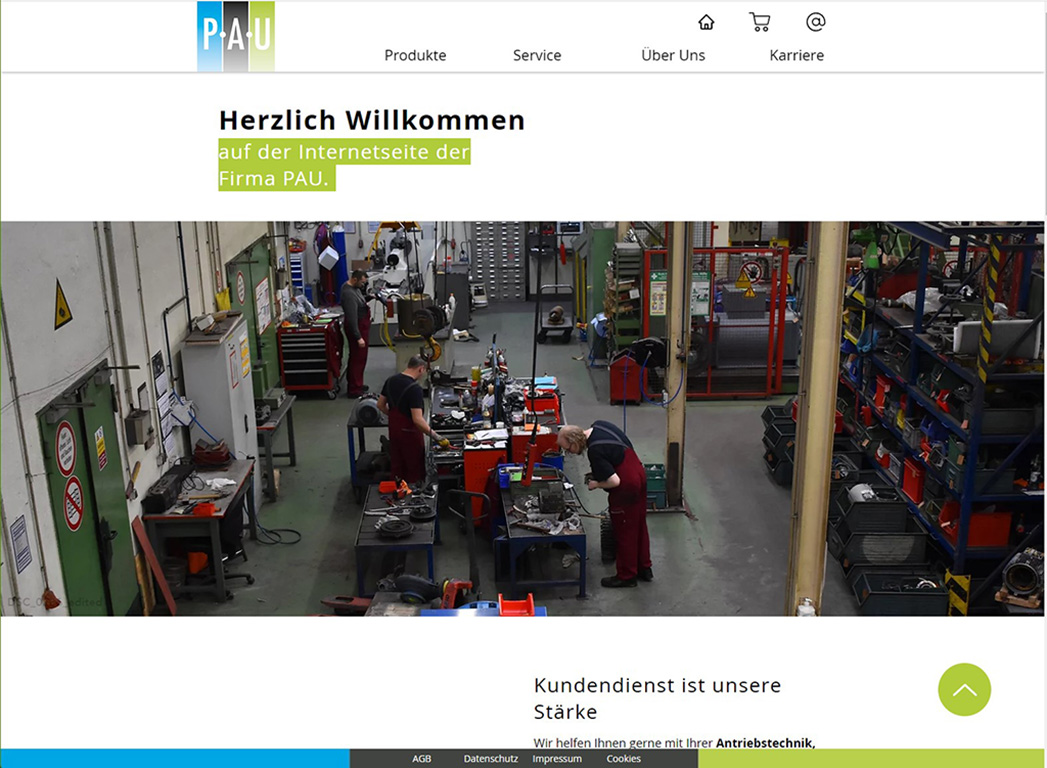
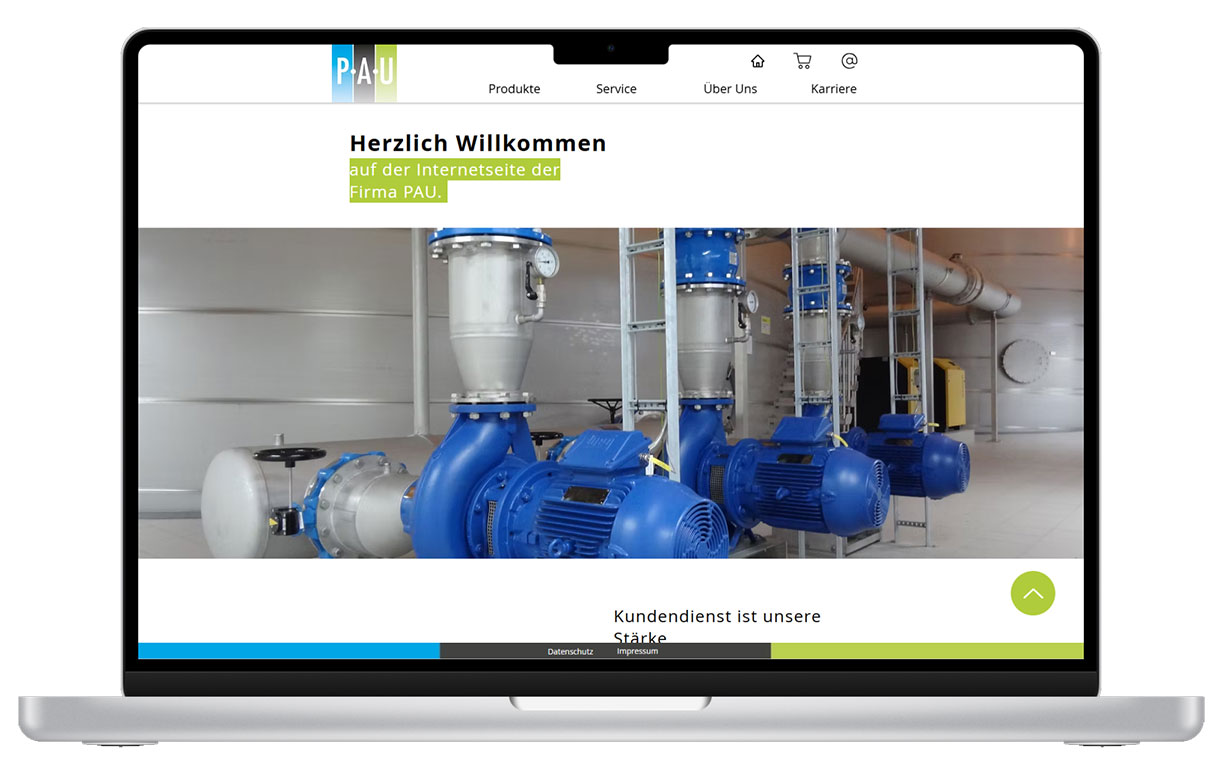
Neues Projekt eingefügt - Bearbeitung von Bildern

diff --git a/index.html b/index.html
@@ -38,14 +38,14 @@
                     <span>Chiara</span>
                     <span>Dent</span>
                 </h1>
-                <p>Design ist die Brücke zwischen Idee und Nutzererfahrung – es sorgt dafür, dass
+                <p>Design ist die Brücke zwischen Idee und Nutzererfahrung, es sorgt dafür, dass
                     Inhalte nicht nur konsumiert, sondern auch verstanden und geschätzt werden. </p>
                 <h2>was ist gutes Design?</h2>
                 <div class="text-container flex item-start flex-wrap gap-lg">
-                    <p>Design ist weit mehr als nur Ästhetik – es ist die Sprache, mit der ein Produkt
+                    <p>Design ist weit mehr als nur Ästhetik. Es ist die Sprache, mit der ein Produkt
                         oder eine Webseite kommuniziert. Gutes Design vereint Funktionalität,
                         Benutzerfreundlichkeit und visuelle Anziehungskraft zu einem stimmigen Gesamterlebnis.</p>
-                    <p lang="en">Design is much more than just aesthetics – it is the language through which a
+                    <p lang="en">Design is much more than just aesthetics. It is the language through which a
                         product or website communicates. Good design combines functionality, usability,
                         and visual appeal into a harmonious overall experience.</p>
                 </div>
@@ -59,11 +59,11 @@
                     <div class="scroll-progress-bar"></div>
                 </div>
 
-                <h2 id="projects-title">Bisherige Projekte</h2>
+                <h2 id="projects-title">Einblick in meine Projekte</h2>
 
                 <ul class="projects-list">
                     <li class="project-item">
-                        <img src="img/webseiten/axel_otterbach_webseite.jpg" alt="Webseite für einen Bildhauer">
+                        <img src="img/webseiten/axel_otterbach_webseite.png" alt="Webseite für einen Bildhauer">
                         <article class="project-content">
                             <h3>Webseite für einen Bildhauer</h3>
                             <p>Die Webseite von Axel Otterbach stellt seine Skulpturen in den Mittelpunkt,
@@ -80,7 +80,7 @@
                     </li>
 
                     <li class="project-item">
-                        <img src="img/webseiten/PAU_webseite.jpg" alt="Webseite für einen Handwerksbetrieb">
+                        <img src="img/webseiten/PAU_webseite.png" alt="Webseite für einen Handwerksbetrieb">
                         <article class="project-content">
                             <h3>Pumpen. Anlagen. Umrichter.</h3>
                             <p>Die Webseite von PAU Elektromaschinenbau dient als erstes Aushängeschild des
@@ -101,7 +101,7 @@
                     </li>
 
                     <li class="project-item">
-                        <img src="img/webseiten/ergotheraphie_webseite.jpg" alt="Webseite für eine Ergotherapie-Praxis">
+                        <img src="img/webseiten/ergotheraphie_webseite.png" alt="Webseite für eine Ergotherapie-Praxis">
                         <article class="project-content">
                             <h3>Ergotherapie-Simon</h3>
                             <p>Die Webseite von Ergotherapie Simon bietet einen klaren Überblick über die
@@ -114,7 +114,24 @@
                             </a>
                         </article>
                     </li>
-                    
+
+                    <li class="project-item">
+                        <img src="img/webseiten/Hochsprungmeeting_webseite.png" alt="Webseite für eine Ergotherapie-Praxis">
+                        <article class="project-content">
+                            <h3>Hochsprung Meeting Heilbronn</h3>
+                            <p>Die Webseite des Internationales Hochsprungmeeting Heilbronn lädt dazu ein, die 
+                                Weltelite im Hochsprung live auf dem Marktplatz von Heilbronn zu erleben. 
+                                Hinter dem Event steht ein engagiertes ehrenamtliches Team, ohne dessen Mithilfe 
+                                die Veranstaltung nicht möglich wäre. Jeder Helfende trägt dazu bei, dass 
+                                Spitzensport und Gemeinschaft hier eng zusammenfinden — mit Leib und Seele.
+                            </p>
+                            <a href="#mehr" class="btn-learn-more">
+                                zur Webseite
+                                <span class="arrow"></span>
+                            </a>
+                        </article>
+                    </li>
+
                 </ul>
             </div>
         </section>
@@ -138,8 +155,6 @@
             </section>
 
         </section>
-
-
 
         <!-- Über Mich -->
         <section id="about" class="about" aria-labelledby="about-title">

diff --git a/css/index.css b/css/index.css
@@ -11,12 +11,9 @@
   padding: 0 20px;
 }
 
-
 /*==========================
 Hero
 ========================== */
-
-
 
 .color-hover span {
   transition: color 0.4s ease;
@@ -38,7 +35,7 @@ Projekte
 ========================== */
 .projects {
   position: relative;
-  background: #f8f8f8;
+  background: linear-gradient(to bottom, #fff, #afb6e4 );
   overflow: hidden;
 }
 
@@ -65,6 +62,11 @@ Projekte
   transition: width 0.1s linear;
 }
 
+.projects h2{
+  padding: 0 20px;
+  margin: 10%  0;
+}
+
 /* Projekte-Liste Mobile */
 .projects-list {
   display: flex;
@@ -72,7 +74,7 @@ Projekte
   gap: 2rem;
   list-style: none;
   margin: 0;
-  padding: 0 50px;
+  padding: 0;
   transition: transform 0.2s ease-out;
   
 }
@@ -81,7 +83,6 @@ Projekte
 .project-item {
   flex: 0 0 auto;
   width: 100%;
-  background: white;
   padding: 1rem;
   border-radius: 8px;
   box-sizing: border-box;
@@ -98,14 +99,12 @@ Projekte
   .projects-list {
     display: flex;
     flex-direction: row;
-    height: 100vh;        /* volle Höhe */
     width: max-content;   /* erlaubt horizontales Scrollen */
  scroll-behavior: smooth;
   }
 
   .project-item {
     flex: 0 0 100vw;      /* jedes Item fullscreen */
-    height: 100vh;
     display: flex;
     align-items: center;
     justify-content: center;
